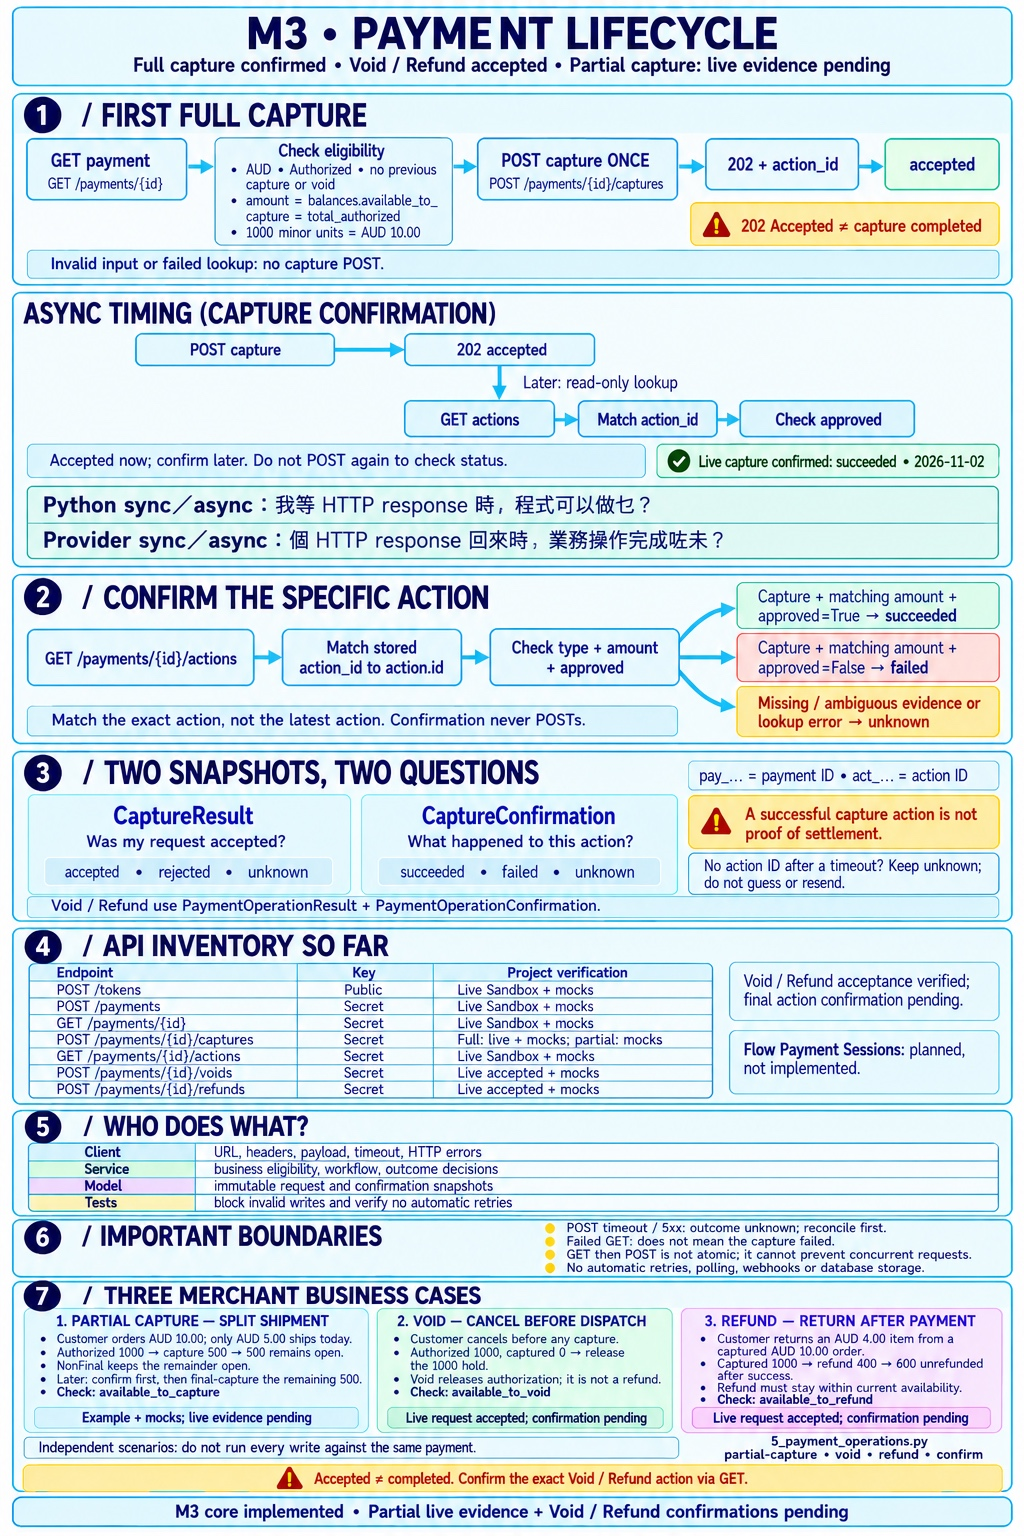
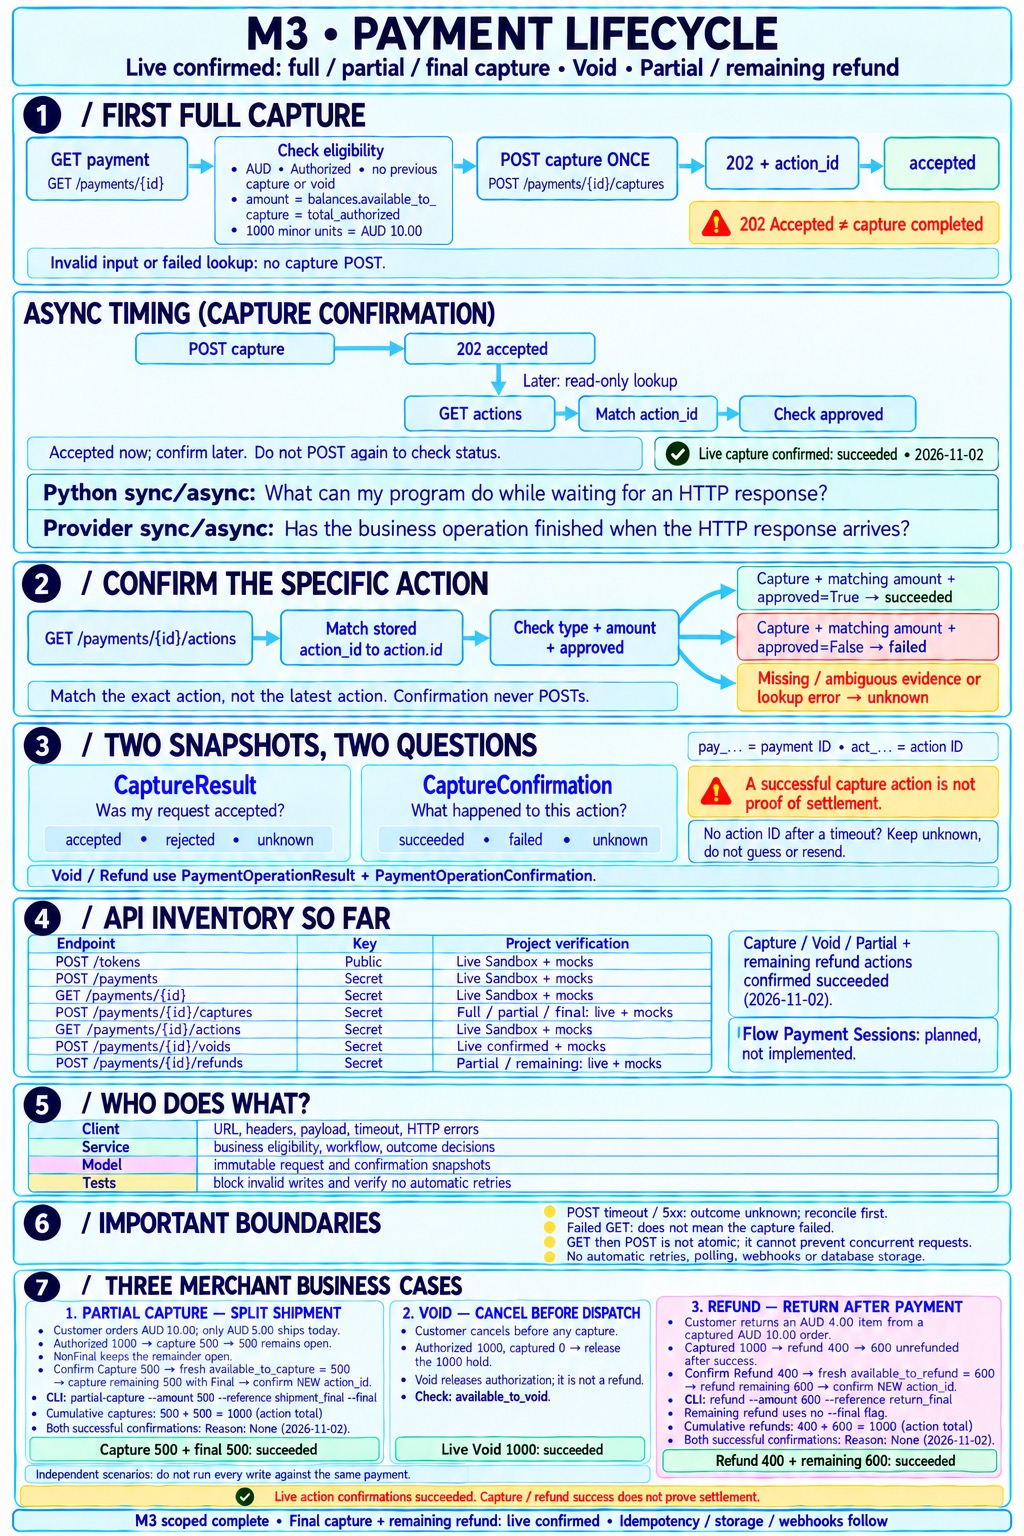
docs: complete M3 lifecycle verification and remaining operation guides

diff --git a/backend/scripts/5_payment_operations.py b/backend/scripts/5_payment_operations.py
@@ -9,8 +9,13 @@ An AUD 10.00 order is authorized, but only AUD 5.00 of goods ship today.
 Collect 500 using NonFinal and leave the rest open. After confirming the first
 action and checking fresh balances, collect the remaining 500 using --final.
     python scripts/5_payment_operations.py partial-capture PAYMENT_ID --amount 500 --reference shipment_001
+    python scripts/5_payment_operations.py confirm PAYMENT_ID --action-id FIRST_CAPTURE_ACTION_ID --action-type Capture --amount 500 --reference shipment_001
+Once succeeded, the next write checks fresh available_to_capture = 500:
     python scripts/5_payment_operations.py partial-capture PAYMENT_ID --amount 500 --reference shipment_final --final
-The second command is a separate business decision, not an automatic next step.
+    python scripts/5_payment_operations.py confirm PAYMENT_ID --action-id FINAL_CAPTURE_ACTION_ID --action-type Capture --amount 500 --reference shipment_final
+The final capture write is a separate business decision, not an automatic next step.
+Final must consume all current capture availability in this service. Successful
+500 + 500 actions imply 1000 captured; independently verify fresh payment balances.
 
 CASE 2 - Customer cancels before dispatch: void
 An AUD 10.00 authorization has no captures. Release the full remaining 1000
@@ -22,6 +27,19 @@ An AUD 10.00 payment was captured. Return AUD 4.00 (400), within the current
 refundable balance. After confirmed success, 600 remains unrefunded if there
 were no other refunds. Void and refund serve different payment lifecycle stages.
     python scripts/5_payment_operations.py refund PAYMENT_ID --amount 400 --reference return_001
+    python scripts/5_payment_operations.py confirm PAYMENT_ID --action-id FIRST_REFUND_ACTION_ID --action-type Refund --amount 400 --reference return_001
+If the remaining goods are also returned, confirm the first refund succeeded,
+then request the remaining 600 only within fresh available_to_refund:
+    python scripts/5_payment_operations.py refund PAYMENT_ID --amount 600 --reference return_final
+    python scripts/5_payment_operations.py confirm PAYMENT_ID --action-id REMAINING_REFUND_ACTION_ID --action-type Refund --amount 600 --reference return_final
+Remaining refund uses the same refund command, with no --final flag. Successful
+400 + 600 actions imply 1000 refunded; independently verify fresh payment balances.
+These are separate return decisions, not a batch to execute automatically.
+
+LIVE EVIDENCE (2026-11-02)
+Final-remaining Capture 500 (shipment_final) and remaining Refund 600 (return_final)
+each reported Confirmation: succeeded, Reason: None. See docs/m3-payment-lifecycle.md
+for exact IDs. These completed examples are evidence, not instructions to resend.
 
 AFTER EACH ACCEPTED REQUEST - Read-only confirmation
 Keep the returned action ID. Use Capture, Void, or Refund to match the action

diff --git a/docs/m3-payment-lifecycle.md b/docs/m3-payment-lifecycle.md
@@ -7,6 +7,14 @@ capture, void, refund, CLI examples, and verification evidence.
 The cheat sheet was generated with imagegen; its prompt is kept locally and
 excluded from Git. The Dashboard screenshot below is the user's original image.
 
+**M3 scoped completion (2026-11-02):** internal AUD Sandbox services, CLI commands,
+automated tests and representative live operation confirmations are complete.
+Full capture, partial capture, void and partial refund actions were confirmed
+live. Final-remaining capture `500` and remaining refund `600` were also confirmed
+`succeeded`, with `Reason: None` for both actions.
+This does not complete an authenticated merchant API, idempotency, storage,
+webhooks or settlement verification.
+
 Related references: [API inventory](api-inventory.md) and
 [layer responsibilities](m2-completion.md#layer-responsibilities-what-belongs-where-and-why).
 
@@ -172,16 +180,30 @@ python scripts/5_payment_operations.py partial-capture pay_REPLACE_WITH_PAYMENT_
   --amount 500 --reference shipment_001
 ```
 
+Confirm the first action using its returned ID (each command stays on one line):
+
+```bash
+python scripts/5_payment_operations.py confirm pay_REPLACE_WITH_PAYMENT_ID --action-id act_REPLACE_WITH_FIRST_CAPTURE_ACTION_ID --action-type Capture --amount 500 --reference shipment_001
+```
+
 After confirming the first action and checking current balances, a separate final
 capture of a remaining `500` would use:
 
 ```bash
-python scripts/5_payment_operations.py partial-capture pay_REPLACE_WITH_PAYMENT_ID \
-  --amount 500 --reference shipment_final --final
+python scripts/5_payment_operations.py partial-capture pay_REPLACE_WITH_PAYMENT_ID --amount 500 --reference shipment_final --final
+```
+
+Keep the **new** action ID and confirm this final capture separately:
+
+```bash
+python scripts/5_payment_operations.py confirm pay_REPLACE_WITH_PAYMENT_ID --action-id act_REPLACE_WITH_FINAL_CAPTURE_ACTION_ID --action-type Capture --amount 500 --reference shipment_final
 ```
 
 Do not run the second request merely because the first returned `accepted`.
 Confirm the first operation and investigate uncertainty before any further write.
+The final write performs a fresh lookup and requires `available_to_capture = 500`
+for this example. Successful `500 + 500` actions imply `1000` captured; a fresh
+payment snapshot should independently verify the resulting balances.
 
 ## Scenario 2: Void an uncaptured authorization
 
@@ -215,6 +237,35 @@ Full refund means requesting all current refundable availability. Both full and
 partial refund are supported, but the provider still decides eligibility.
 Amex operation references above 30 characters are rejected before the write;
 the generic request reference limit remains 80 for other supported card schemes.
+
+### Remaining refund after a partial return
+
+If the customer later returns the remaining goods, first confirm the original
+`400` refund using its action ID:
+
+```bash
+python scripts/5_payment_operations.py confirm pay_REPLACE_WITH_PAYMENT_ID --action-id act_REPLACE_WITH_FIRST_REFUND_ACTION_ID --action-type Refund --amount 400 --reference return_001
+```
+
+After `succeeded`, and with fresh `available_to_refund = 600`, submit the separate
+remaining refund once. The service looks up current availability before the POST:
+
+```bash
+python scripts/5_payment_operations.py refund pay_REPLACE_WITH_PAYMENT_ID --amount 600 --reference return_final
+```
+
+Keep its **new** action ID and confirm that exact `600` action:
+
+```bash
+python scripts/5_payment_operations.py confirm pay_REPLACE_WITH_PAYMENT_ID --action-id act_REPLACE_WITH_REMAINING_REFUND_ACTION_ID --action-type Refund --amount 600 --reference return_final
+```
+
+Refund has no `--final` flag: requesting the full currently refundable balance
+makes this a remaining refund. Successful `400 + 600` actions imply `1000`
+refunded overall, rather than a second `1000` refund. Independently verify fresh
+payment balances. Unknown outcomes require reconciliation before another write.
+The final Capture and remaining Refund examples below were both confirmed
+`succeeded`, `Reason: None` on 2026-11-02; do not resubmit those completed actions.
 
 ## Confirm each action without repeating a write
 
@@ -275,22 +326,38 @@ On 2026-11-02, the user confirmed a specific AUD 10.00 full-capture action:
 settlement or concurrency verification.
 On 2026-11-02, the user also supplied these new live request results:
 
-| Business case | Observed evidence | Still needed |
+| Business case | Observed evidence | Action verification |
 | --- | --- | --- |
-| Split shipment / partial capture | User console log shows Capture `500` accepted with its action ID; Dashboard also shows Partially captured | Read-only confirmation of that Capture action |
-| Cancel before capture / void | New AUD 10.00 authorization; void `1000` returned accepted with an action ID | Read-only confirmation of that Void action |
-| Return after capture / refund | Previously captured AUD 10.00 payment; refund `400` returned accepted with an action ID | Read-only confirmation of that Refund action |
+| Split shipment / partial capture | Capture `500` accepted; Dashboard shows Partially captured | Exact Capture action confirmed succeeded, Reason None |
+| Cancel before capture / void | New AUD 10.00 authorization; void `1000` accepted | Exact Void action confirmed succeeded, Reason None |
+| Return after capture / refund | Previously captured AUD 10.00 payment; refund `400` accepted | Exact Refund action confirmed succeeded, Reason None |
 
 ### Known action lookup inputs
 
-The user supplied the following identifiers in the terminal log. All three
-requests were accepted; their separate action confirmations have not been supplied.
+The user supplied the following identifiers and subsequent read-only confirmation
+outputs. All three actions reported `succeeded` with `Reason: None` on 2026-11-02.
 
 | Action type | Payment ID | Action ID | Amount | Reference |
 | --- | --- | --- | --- | --- |
 | Capture | `pay_elcyababuq5yhhkhqnxsn6tiry` | `act_ugtffbdscuievodaqmg7chrzbq` | 500 | shipment_001 |
 | Void | `pay_ylccplibor5yfarvmhg322xdni` | `act_n7fzlqxsfifexfqpnqovig7g5u` | 1000 | canceled_order_001 |
 | Refund | `pay_nna4tjqbpqbidl22nvvomxj6zm` | `act_2gst7qngpw7ufpbdd73qx5vgbq` | 400 | return_001 |
+
+### Additional operations confirmed succeeded
+
+The user subsequently submitted the remaining capture and refund amounts. Both
+requests returned accepted. On 2026-11-02, the user supplied read-only confirmation
+outputs for both actions: `Confirmation: succeeded`, `Reason: None`.
+
+| Action type | Payment ID | New action ID | Amount | Reference |
+| --- | --- | --- | --- | --- |
+| Capture (Final) | `pay_elcyababuq5yhhkhqnxsn6tiry` | `act_uvzvpvxfazyuxiaq7ae7pm7o4i` | 500 | shipment_final |
+| Refund (remaining) | `pay_nna4tjqbpqbidl22nvvomxj6zm` | `act_mwgzbzk36w6utkv3ovijscz3ye` | 600 | return_final |
+
+Both action confirmations are complete. The successful actions imply a cumulative
+capture of `1000` for the first payment and a cumulative refund of `1000` for the
+second. Fresh payment balances remain to be checked to independently verify those
+totals; action confirmation does not establish settlement.
 
 An initial void attempt on a different older payment was blocked before POST.
 The generic validation message does not establish the exact eligibility reason.

diff --git a/README.md b/README.md
@@ -50,7 +50,7 @@ The exact Checkout.com client SDK and session/tokenization flow depend on the ch
 ### Phase 1: Python Backend & Provider Integration
 - [x] M1: Sandbox configuration, credentials validation, and HTTPX client
 - [x] M2: Sandbox payment creation/lookup, validation, in-memory records, and error decisions
-- [ ] M3: Authorization-only, capture, void, and refunds (where supported)
+- [x] M3: Sandbox authorization-only, capture, void, and refund services (scoped)
 - [ ] M4: Idempotency, safe retries, and timeout reconciliation
 - [ ] M5: Webhook signature verification, deduplication, and event processing
 - [ ] M6: PostgreSQL order/payment/operation/event persistence
@@ -168,7 +168,13 @@ validates request formats and requires an explicit keyword-only `capture` boolea
 it forwards the currency and capture choice instead of deciding merchant policy.
 The manual Sandbox script invokes the service and still sends `capture=False`.
 
-### M3 In Progress — Capture, Void, and Refund
+### M3 Complete — Sandbox Capture, Void, and Refund Services
+
+M3 completion covers the internal AUD Sandbox services, CLI flows, mocks and
+representative live action confirmations. Authenticated merchant API access,
+idempotency, durable operation storage and verified webhooks remain later work.
+Final-remaining capture `500` and remaining refund `600` also have user-run live
+exact-action confirmations: `succeeded`, `Reason: None` (2026-11-02).
 
 - [x] Add the capture client method with payment ID, positive integer amount,
   and reference validation before sending a request.
@@ -199,9 +205,14 @@ The manual Sandbox script invokes the service and still sends `capture=False`.
   void, and refund states. Operator authentication and persistence remain future work.
 - [x] User-run live Sandbox void `1000` and refund `400` requests returned accepted
   with action IDs (2026-11-02); acceptance is not final confirmation.
-- [ ] Confirm the live Void and Refund actions using read-only action lookup.
+- [x] Live Void `1000` and Refund `400` exact-action lookups both reported
+  `Confirmation: succeeded`, `Reason: None` (2026-11-02).
 - [x] User console log supplied live partial capture `500` acceptance and its action ID.
-- [ ] Confirm the live partial Capture action using read-only action lookup.
+- [x] Live partial Capture `500` exact-action lookup reported
+  `Confirmation: succeeded`, `Reason: None` (2026-11-02).
+- [x] Live final-remaining Capture `500` (`shipment_final`) and remaining Refund
+  `600` (`return_final`) exact-action lookups both reported
+  `Confirmation: succeeded`, `Reason: None` (2026-11-02).
 
 Business scenarios, walkthroughs, commands and Dashboard evidence:
 [M3 Payment Lifecycle](docs/m3-payment-lifecycle.md).
@@ -333,9 +344,11 @@ Neither command persists results or establishes settlement.
 
 Partial capture, void, refund and generic action confirmation commands are grouped
 under `scripts/5_payment_operations.py`; see [M3 Payment Lifecycle](docs/m3-payment-lifecycle.md).
-Void and refund requests have user-run live acceptance evidence, with action
-confirmation pending. Partial capture also has user-run acceptance evidence;
-its exact-action confirmation is still pending.
+User-run live lookups confirmed full capture, partial capture, void and partial
+refund actions succeeded. Final-remaining Capture `500` and remaining Refund
+`600` were also confirmed `succeeded`, `Reason: None` (2026-11-02). These are
+action confirmations; fresh payment balances and settlement are not independently
+verified by this evidence.
 
 ### Offline Unit Tests
 

diff --git a/docs/api-inventory.md b/docs/api-inventory.md
@@ -11,13 +11,15 @@ This list describes the repository's current integration, not every provider API
 | `GET /payments/{id}` | `get_payment(payment_id)` | Read payment status and capture balances | Secret | Mock tests and earlier user-run live Sandbox `200`, Authorized |
 | `POST /payments/{id}/captures` | `capture_payment(payment_id, amount, reference)` | Submit a capture action | Secret | Mock tests and user-run live Sandbox acceptance; action subsequently confirmed succeeded |
 | `GET /payments/{id}/actions` | `get_payment_actions(payment_id)` | Read action history and reconcile a specific capture | Secret | Mock tests and user-run live Sandbox confirmation: succeeded (2026-11-02) |
-| `POST /payments/{id}/voids` | `void_payment(payment_id, amount, reference)` | Release remaining uncaptured authorization | Secret | Mocks and user-run live request accepted; Void confirmation pending |
-| `POST /payments/{id}/refunds` | `refund_payment(payment_id, amount, reference)` | Return captured funds within refund availability | Secret | Mocks and user-run live request accepted; Refund confirmation pending |
+| `POST /payments/{id}/voids` | `void_payment(payment_id, amount, reference)` | Release remaining uncaptured authorization | Secret | Mocks and user-run live Void action confirmation: succeeded |
+| `POST /payments/{id}/refunds` | `refund_payment(payment_id, amount, reference)` | Return captured funds within refund availability | Secret | Mocks and user-run live Partial Refund `400` and remaining Refund `600` action confirmations: succeeded, Reason None |
 
 The capture endpoint also supports explicit `NonFinal` and `Final` choices. The
-partial-capture request now has user-run live acceptance evidence, with its
-specific action confirmation pending. Final-remaining capture is mock-verified
-only; the earlier first full capture is the live-confirmed scenario.
+partial-capture request and its specific action are user-verified live as
+succeeded. Final-remaining Capture `500` was also confirmed `succeeded`,
+`Reason: None` (2026-11-02), as was remaining Refund `600`. The earlier first full
+capture was also confirmed live. These are exact-action confirmations, not
+independent verification of fresh payment balances or settlement.
 
 API definitions: [Tokens reference](https://api-reference.checkout.com/tag/tokens)
 and [Payments reference](https://api-reference.checkout.com/tag/payments).
